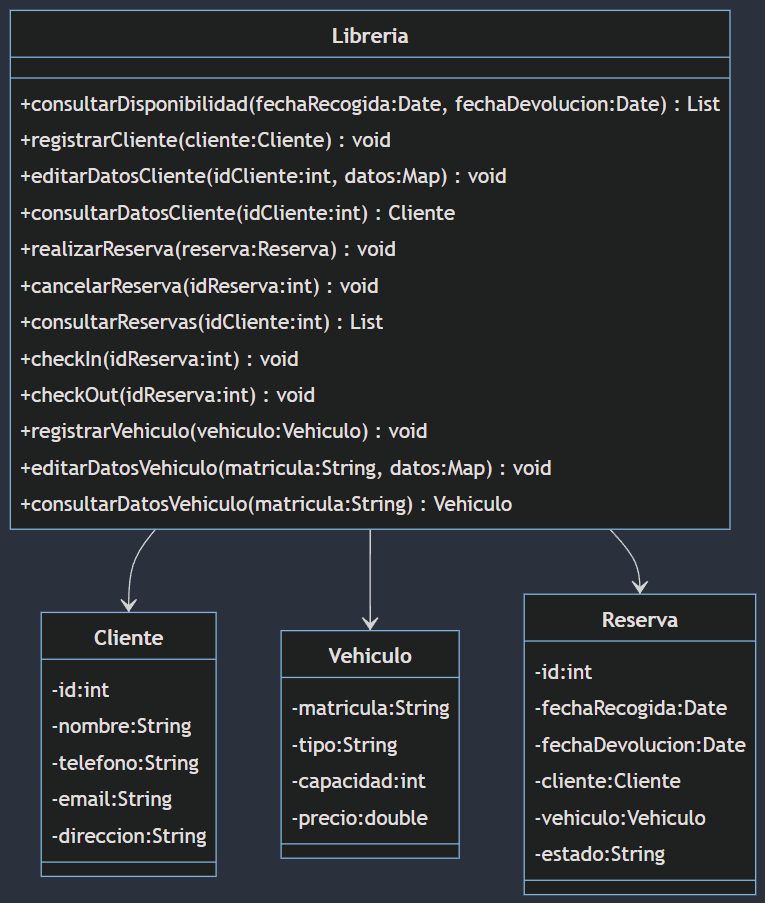
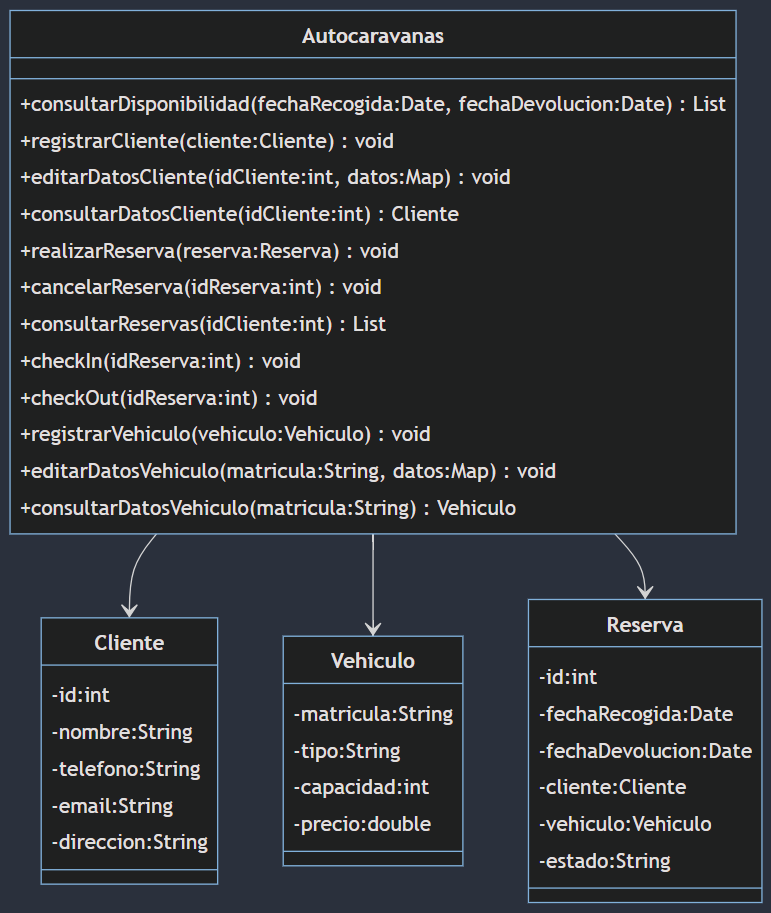
Co-authored-by: violeta <violeta8@users.noreply.github.com>

diff --git a/core/src/main/java/es/uca/dss/agoratech/Autocaravanas.Java b/core/src/main/java/es/uca/dss/agoratech/Autocaravanas.Java
@@ -1,7 +1,7 @@
 package es.uca.dss.agoratech;
 
-// class Biblioteca {
-//     +consultarDisponibilidad(fechaRecogida:Date, fechaDevolucion:Date): List<Autocaravana>
+// class Autocaravanas {
+//     +consultarDisponibilidad(fechaRecogida:Date, fechaDevolucion:Date): List<Vehiculo>
 //     +registrarCliente(cliente:Cliente): void
 //     +editarDatosCliente(idCliente:int, datos:Map<String,String>): void
 //     +consultarDatosCliente(idCliente:int): Cliente
@@ -15,13 +15,11 @@ package es.uca.dss.agoratech;
 //     +consultarDatosVehiculo(matricula:String): Vehiculo
 // }
 
-// ! CUIDADO que usamos vehiculos y no autocaravanas
-// TODO cambiarlo en el diagrama de clases tambien
 public class Autocaravanas {
-    public List<Autocaravana> consultarDisponibilidad(Date fechaRecogida, Date fechaDevolucion) {
-        List<Autocaravana> lista = new ArrayList<Autocaravana>();
-        for (Autocaravana vehiculo : listaVehiculos) {
-            if (vehiculo.getTipo().equals("Autocaravana") && vehiculo.getDisponible()) {
+    public List<Vehiculo> consultarDisponibilidad(Date fechaRecogida, Date fechaDevolucion) {
+        List<Vehiculo> lista = new ArrayList<Vehiculo>();
+        for (Vehiculo vehiculo : listaVehiculos) {
+            if (vehiculo.getDisponible()) {
                 lista.add(vehiculo);
             }
         }
